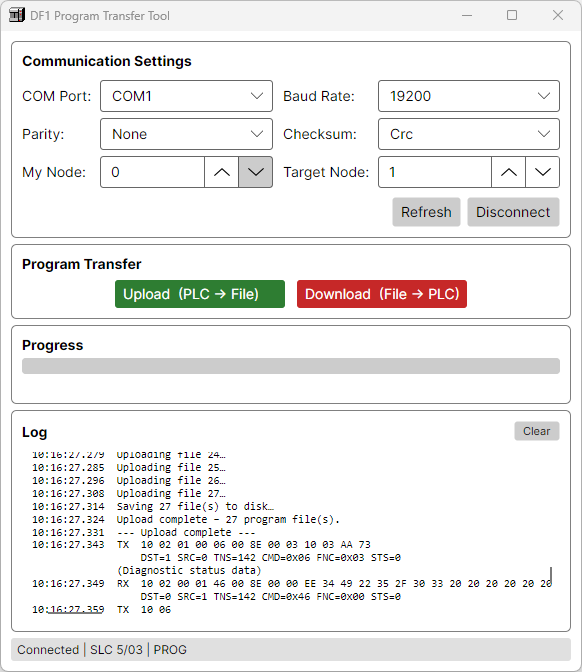
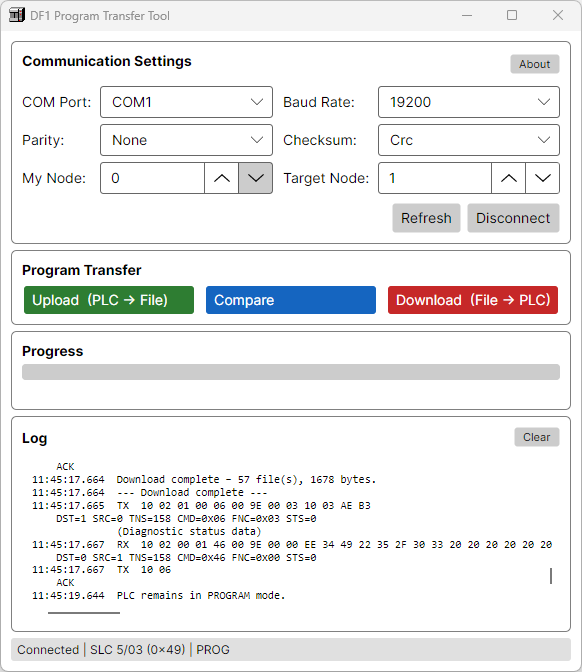
DF1ProgramTool: Update README with current version screenshots

diff --git a/src/DF1ProgramTool/README.md b/src/DF1ProgramTool/README.md
@@ -14,6 +14,7 @@ Cross‑platform desktop GUI (Avalonia UI) that uploads the complete program fro
 - Automatic **PLC detection** – processor type, family, and run/program mode.
 - **Upload** – reads all program and data files, saves to a compact binary file (`.bin`) with a descriptive name.
 - **Download** – restores a previously uploaded program to the same PLC family.
+- **Compare** – compares a backup file against current PLC program, shows mismatches in file structure and CRC32 data.
 - **Supports** SLC 5/01, 5/02, 5/03, 5/04, 5/05 and MicroLogix 1000/1500.
 - **Graphical COM port selection** – baud rate, parity, and node address configurable.
 - **Progress indication** – shows current file being transferred.
@@ -24,7 +25,11 @@ Cross‑platform desktop GUI (Avalonia UI) that uploads the complete program fro
 
 ![Main Window](Assets/Screenshots/MainWindow.png)
 
-*Main window after uploading DF1Emulator internal memory*
+*Main window after downloading DF1Emulator internal memory*
+
+![Compare Results](Assets/Screenshots/CompareResults.png)
+
+*Compare dialog showing differences between backup file and PLC memory*
 
 ## Requirements
 - .NET 8 SDK or later
@@ -124,6 +129,7 @@ During download, the tool validates the processor type and bulletin against the 
 | **Invalid Address** during download | The selected binary file does not match the target PLC memory layout (different processor family). |
 | **Dialog hangs / no reaction** | Run from a terminal to see debug output; ensure the main window is not hidden. |
 | **PLC stopped working after download** | You downloaded a program file that is not compatible with your PLC. Restore the original backup using RSLogix or this tool if a correct backup exists. |
+| **Compare shows mismatches** | Normal if the PLC program has changed since the backup was created. Use Upload to create a fresh backup. |
 
 ## Project structure
 | File | Description |

diff --git a/README.md b/README.md
@@ -91,6 +91,7 @@ DF1Comm/
 - Cross‑platform GUI built with Avalonia UI
 - Upload entire PLC program to a binary file
 - Download previously saved program back to the PLC
+- Compares a backup file against current PLC program
 - Supports SLC 5/01–5/05 and MicroLogix 1000/1500
 - Automatic PLC detection and descriptive filename generation
 - Progress indication during transfer